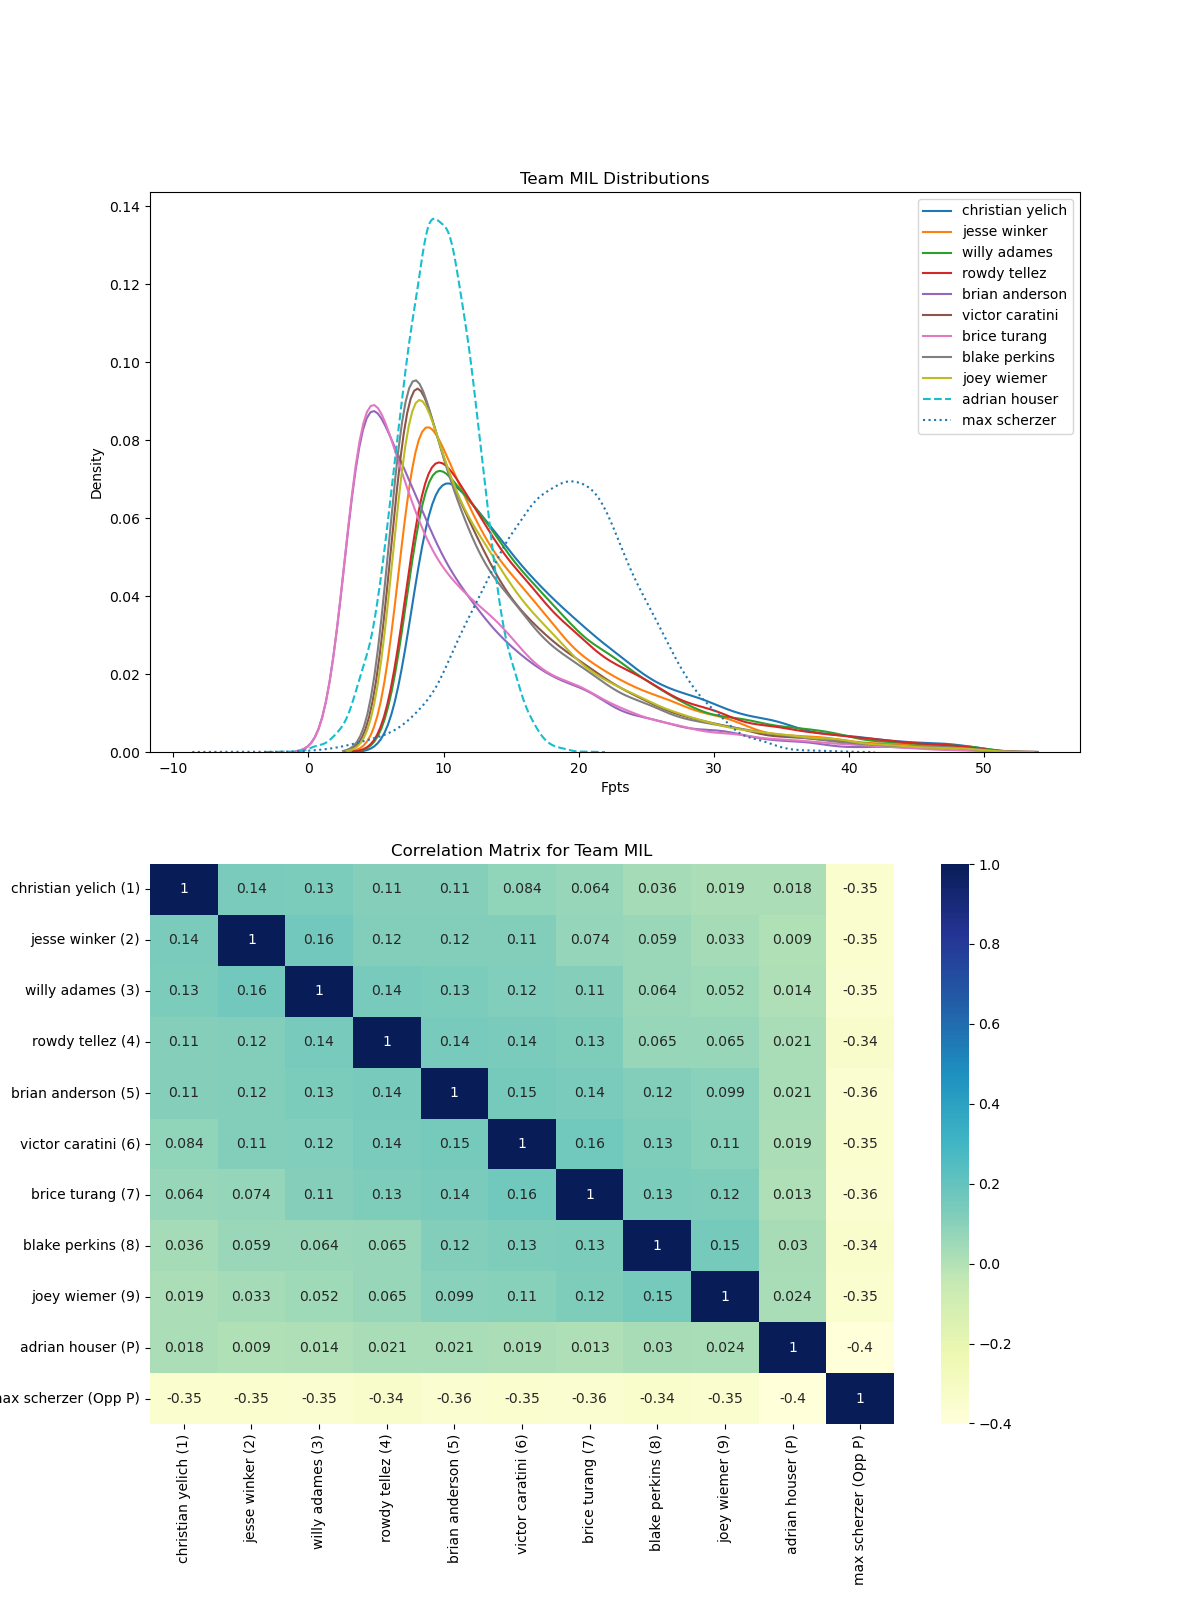
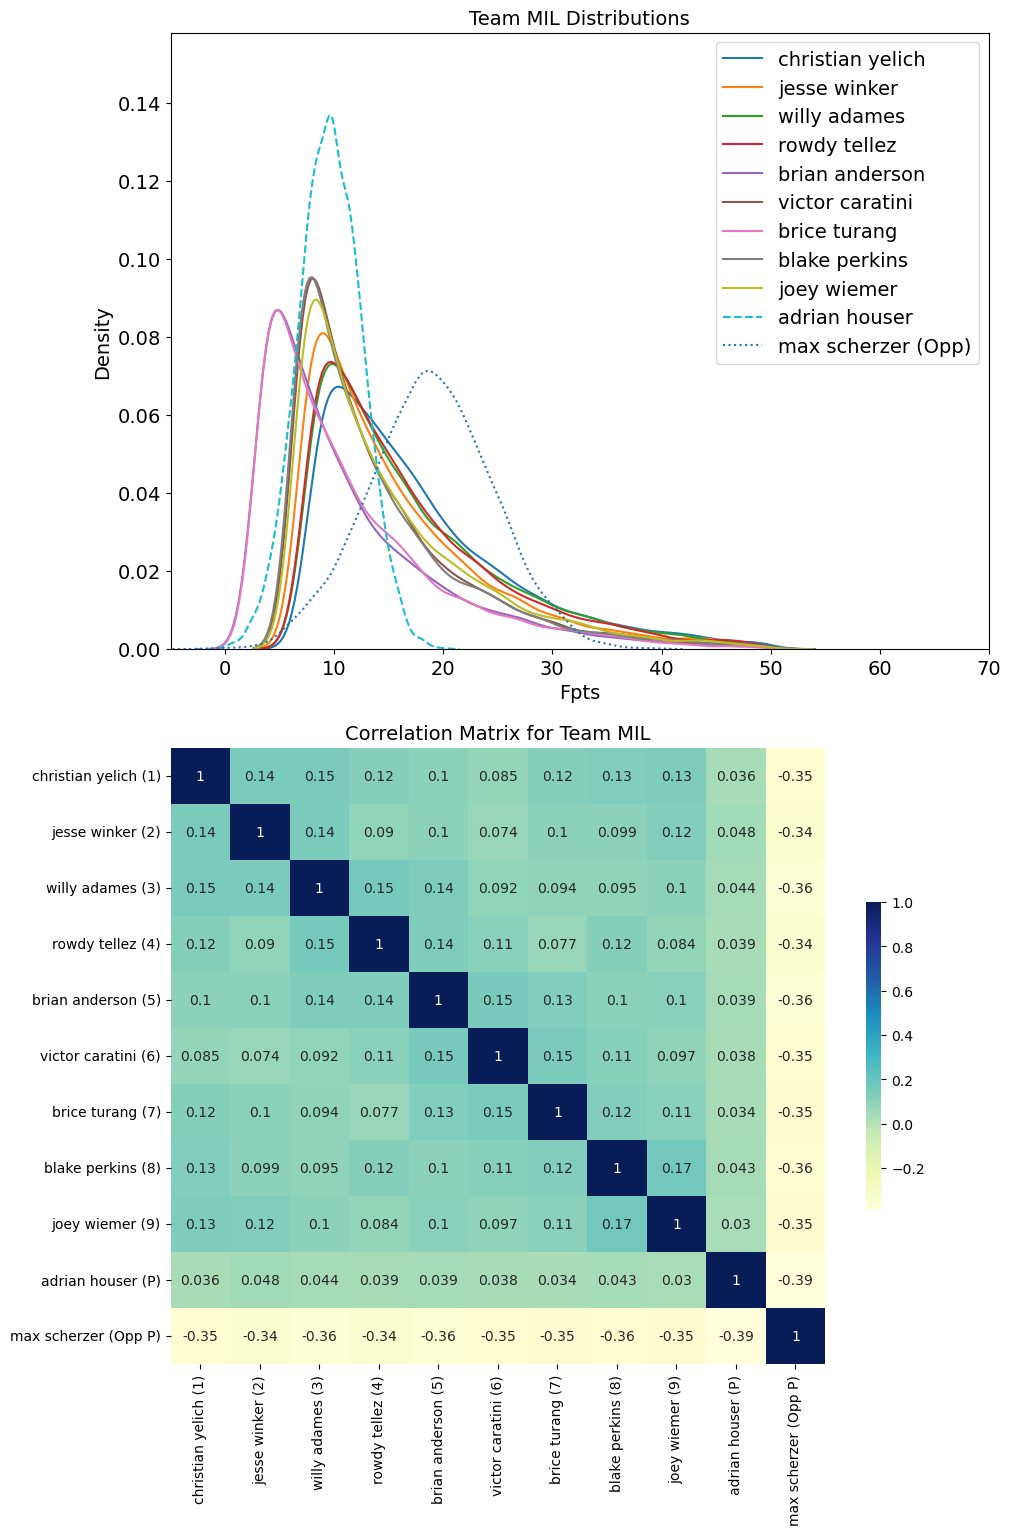
sim works

diff --git a/src/mlb_gpp_simulator.py b/src/mlb_gpp_simulator.py
@@ -846,25 +846,19 @@ class MLB_GPP_Simulator:
         return alpha,beta
 
 
-    def run_simulation_for_team(self, team_id, team, pitcher_samples_dict, pitcher_hitter_correlation, num_iterations):
-
-
-        # matrix is 10 x 10. FIrst 9 rows are hitters. Each row is the correlation of a lineup spot (player_dict 'Order') with the other 9 spots. 
-        # The lists are in order of the player_dict 'Order' key. 1-9 represents the 9 spots in the lineup, the last row is the pitcher and 'Order' is None.
-        # last row is pitcher from team of hitters who has a 0 correlation with the hitters on his team. 
-
+    def run_simulation_for_team(self, team_id, team, pitcher_samples_dict, num_iterations):
 
         correlation_matrix = np.array([
-            [1, 0.2, 0.175, 0.15, 0.125, 0.1, 0.075, 0.05, 0.025, .02, -.4],
-            [0.2, 1, 0.2, 0.175, 0.15, 0.125, 0.1, 0.075, 0.05, .02, -.4],
-            [0.175, 0.2, 1, 0.2, 0.175, 0.15, 0.125, 0.1, 0.075, .02, -.4],
-            [0.15, 0.175, 0.2, 1, 0.2, 0.175, 0.15, 0.125, 0.1, .02, -.4],
-            [0.125, 0.15, 0.175, 0.2, 1, 0.2, 0.175, 0.15, 0.125, .02, -.4],
-            [0.1, 0.125, 0.15, 0.175, 0.2, 1, 0.2, 0.175, 0.15, .02, -.4],
-            [0.075, 0.1, 0.125, 0.15, 0.175, 0.2, 1, 0.2, 0.175, .02, -.4],
-            [0.05, 0.075, 0.1, 0.125, 0.15, 0.175, 0.2, 1, 0.2, .02, -.4],
-            [0.025, 0.05, 0.075, 0.1, 0.125, 0.15, 0.175, 0.2, 1, .02, -.4],
-            [.02, .02, .02, .02, .02, .02, .02, .02, .02, 1, -.4],
+            [1.000000, 0.208567, 0.180173, 0.144913, 0.108717, 0.105452, 0.137026, 0.172705, 0.178171, .05, -.4],
+            [0.208567, 1.000000, 0.194440, 0.157801, 0.147979, 0.120411, 0.125511, 0.136052, 0.164456, .05, -.4],
+            [0.180173, 0.194440, 1.000000, 0.190412, 0.160093, 0.120162, 0.108959, 0.128614, 0.126364, .05, -.4],
+            [0.144913, 0.157801, 0.190412, 1.000000, 0.179935, 0.149753, 0.127822, 0.120928, 0.099442, .05, -.4],
+            [0.108717, 0.147979, 0.160093, 0.179935, 1.000000, 0.176625, 0.162855, 0.139522, 0.122343, .05, -.4],
+            [0.105452, 0.120411, 0.120162, 0.149753, 0.176625, 1.000000, 0.175045, 0.153736, 0.117608, .05, -.4],
+            [0.137026, 0.125511, 0.108959, 0.127822, 0.162855, 0.175045, 1.000000, 0.153188, 0.143971, .05, -.4],
+            [0.172705, 0.136052, 0.128614, 0.120928, 0.139522, 0.153736, 0.153188, 1.000000, 0.188197, .05, -.4],
+            [0.178171, 0.164456, 0.126364, 0.099442, 0.122343, 0.117608, 0.143971, 0.188197, 1.000000, .05, -.4],
+            [.05, .05, .05, .05, .05, .05, .05, .05, .05, 1, -.4],
             [-.4, -.4, -.4, -.4, -.4, -.4, -.4, -.4, -.4, -.4, 1]
         ])
 
@@ -878,7 +872,6 @@ class MLB_GPP_Simulator:
         std_devs = [3]*9 + [1] + [1] # Create a list with standard deviations, 9 for the first 9 elements and 2 for the last one.
         D = np.diag(std_devs)  # Create a diagonal matrix with the standard deviations
         covariance_matrix = np.dot(D, np.dot(correlation_matrix, D))  # Calculate covariance matrix
-
 
         # print(covariance_matrix)
 
@@ -923,27 +916,6 @@ class MLB_GPP_Simulator:
                 opposing_pitcher_samples = np.random.normal(loc=opposing_pitcher_fpts, scale=opposing_pitcher_stddev, size=size)
                 pitcher_samples_dict[opposing_pitcher_id] = opposing_pitcher_samples
 
-
-        # # Adjust pitcher and hitter performance
-        # if opposing_pitcher_id is not None and pitcher_tuple_key['ID'] != opposing_pitcher_id and opposing_pitcher_samples is not None:
-        #     pitcher_samples_mean = np.mean(pitcher_samples)
-        #     # print(pitcher_samples_mean)
-        #     opposing_pitcher_samples_mean = np.mean(opposing_pitcher_samples)
-        #     # print(opposing_pitcher_samples_mean)
-
-        #     pitcher_performance_ratio = 1 - (pitcher_samples_mean / (pitcher_samples_mean + opposing_pitcher_samples_mean))
-        #     opposing_pitcher_performance_ratio = 1 - pitcher_performance_ratio
-
-        #     # Adjust hitters performance based on pitcher's performance
-        #     hitters_fpts = hitters_fpts * (1 + pitcher_performance_ratio)
-        #     # Adjust pitchers performance based on hitter's performance
-        #     pitcher_samples = pitcher_samples * (1 - np.mean(hitters_fpts) / (np.mean(hitters_fpts) + pitcher_samples_mean))
-        #     # Adjust opposing pitcher's performance based on hitter's performance
-        #     opposing_pitcher_samples = opposing_pitcher_samples * (1 - np.mean(hitters_fpts) / (np.mean(hitters_fpts) + opposing_pitcher_samples_mean))
-
-
-
-
         # Preparing players for simulation
         hitters_params = [(fpts, stddev) for fpts, stddev in zip(hitters_fpts, hitters_stddev)]
         pitcher_params = (pitcher_fpts, pitcher_stddev)
@@ -981,56 +953,50 @@ class MLB_GPP_Simulator:
         opposing_pitcher_samples = norm.ppf(uniform_samples.T[-1], *opposing_pitcher_params)
         
 
-        # for player_scores in hitters_samples:
-        #     print(np.std(player_scores))
+        fig, (ax1, ax2) = plt.subplots(2, figsize=(10, 15))
+        fig.tight_layout(pad=5.0)  # Add padding for better visibility
 
 
-        # Prepare to draw the distribution shape
-        fig, (ax1, ax2) = plt.subplots(2, 1, figsize=(12,16))
-
-        # KDE plots
         for i, hitter in enumerate(hitters_tuple_keys):
             sns.kdeplot(hitters_samples[i], ax=ax1, label=hitter['Name'])
 
-        # Add the pitcher's distribution to the plot
+
         sns.kdeplot(pitcher_samples, ax=ax1, label=pitcher_tuple_key['Name'], linestyle='--')
 
-        # Add the opposing pitcher's distribution to the plot
-        sns.kdeplot(opposing_pitcher_samples, ax=ax1, label=opposing_pitcher['Name'], linestyle=':')
 
-        # Adding legend, labels and title
-        ax1.legend(loc='upper right')
-        ax1.set_xlabel('Fpts')
-        ax1.set_ylabel('Density')
-        ax1.set_title(f'Team {team_id} Distributions')
+        sns.kdeplot(opposing_pitcher_samples, ax=ax1, label = opposing_pitcher['Name'] + " (Opp)", linestyle=':')
 
-        # Correlation matrix
+        ax1.legend(loc='upper right', fontsize=14)
+        ax1.set_xlabel('Fpts', fontsize=14)
+        ax1.set_ylabel('Density', fontsize=14)
+        ax1.set_title(f'Team {team_id} Distributions', fontsize=14)
+        ax1.tick_params(axis='both', which='both', labelsize=14)
+
+        y_min, y_max = ax1.get_ylim()
+        ax1.set_ylim(y_min, y_max*1.1)  # Adjust the y_max to 10% more than the current y_max for some padding
+
+        ax1.set_xlim(-5, 70)
+
+        # Sorting players and correlating their data
         player_order = [player['Order'] if player['Order'] is not None else float('inf') for player in hitters_tuple_keys] + [1000, float('inf')]
         player_names = [f"{player['Name']} ({player['Order']})" if player['Order'] is not None else f"{player['Name']} (P)" for player in hitters_tuple_keys] + [f"{pitcher_tuple_key['Name']} (P)", f"{opposing_pitcher['Name']} (Opp P)"]
         samples_order = [hitters_samples[i] for i in range(len(hitters_samples))] + [pitcher_samples, opposing_pitcher_samples]
         sorted_samples = [x for _, x in sorted(zip(player_order, samples_order))]
 
-        # Ensure the data is correctly structured as a 2D array
+        # Ensuring the data is correctly structured as a 2D array
         sorted_samples_array = np.array(sorted_samples)
-
-        # Ensure each row of the array is a variable and each column is an observation
         if sorted_samples_array.shape[0] < sorted_samples_array.shape[1]:
             sorted_samples_array = sorted_samples_array.T
 
+        # Creating the correlation matrix
         correlation_matrix = pd.DataFrame(np.corrcoef(sorted_samples_array.T), columns=player_names, index=player_names)
 
-        # Create a mask for the upper triangle
-        mask = np.triu(np.ones_like(correlation_matrix, dtype=bool))
-
-        # Heatmap plot
-        sns.heatmap(correlation_matrix, annot=True, ax=ax2, cmap='YlGnBu')
-
-        ax2.set_title(f'Correlation Matrix for Team {team_id}')
+        # Plotting the correlation matrix
+        sns.heatmap(correlation_matrix, annot=True, ax=ax2, cmap='YlGnBu', cbar_kws={"shrink": .5})  
+        ax2.set_title(f'Correlation Matrix for Team {team_id}', fontsize=14)
 
 
-
-        # Saving the plot to a PNG file
-        plt.savefig(f'Team_{team_id}_Distributions_Correlation.png')
+        plt.savefig(f'Team_{team_id}_Distributions_Correlation.png', bbox_inches='tight')  
         plt.close()
 
         temp_fpts_dict = {}
@@ -1038,9 +1004,6 @@ class MLB_GPP_Simulator:
             temp_fpts_dict[hitter['ID']] = hitters_samples[i]
 
         temp_fpts_dict[pitcher_tuple_key['ID']] = pitcher_samples
-
-        # If you also want to return the opposing pitcher samples
-        temp_fpts_dict[opposing_pitcher['ID']] = opposing_pitcher_samples
 
         return temp_fpts_dict
 
@@ -1054,12 +1017,11 @@ class MLB_GPP_Simulator:
         start_time = time.time()
         temp_fpts_dict = {}
         pitcher_samples_dict = {}  # keep track of already simmed pitchers
-        pitcher_hitter_correlation = -0.2
         size = self.num_iterations
 
 
         with mp.Pool() as pool:
-            team_simulation_params = [(team_id, team, pitcher_samples_dict, pitcher_hitter_correlation, size) for team_id, team in self.teams_dict.items()]
+            team_simulation_params = [(team_id, team, pitcher_samples_dict, size) for team_id, team in self.teams_dict.items()]
             results = pool.starmap(self.run_simulation_for_team, team_simulation_params)
         
         for res in results:
